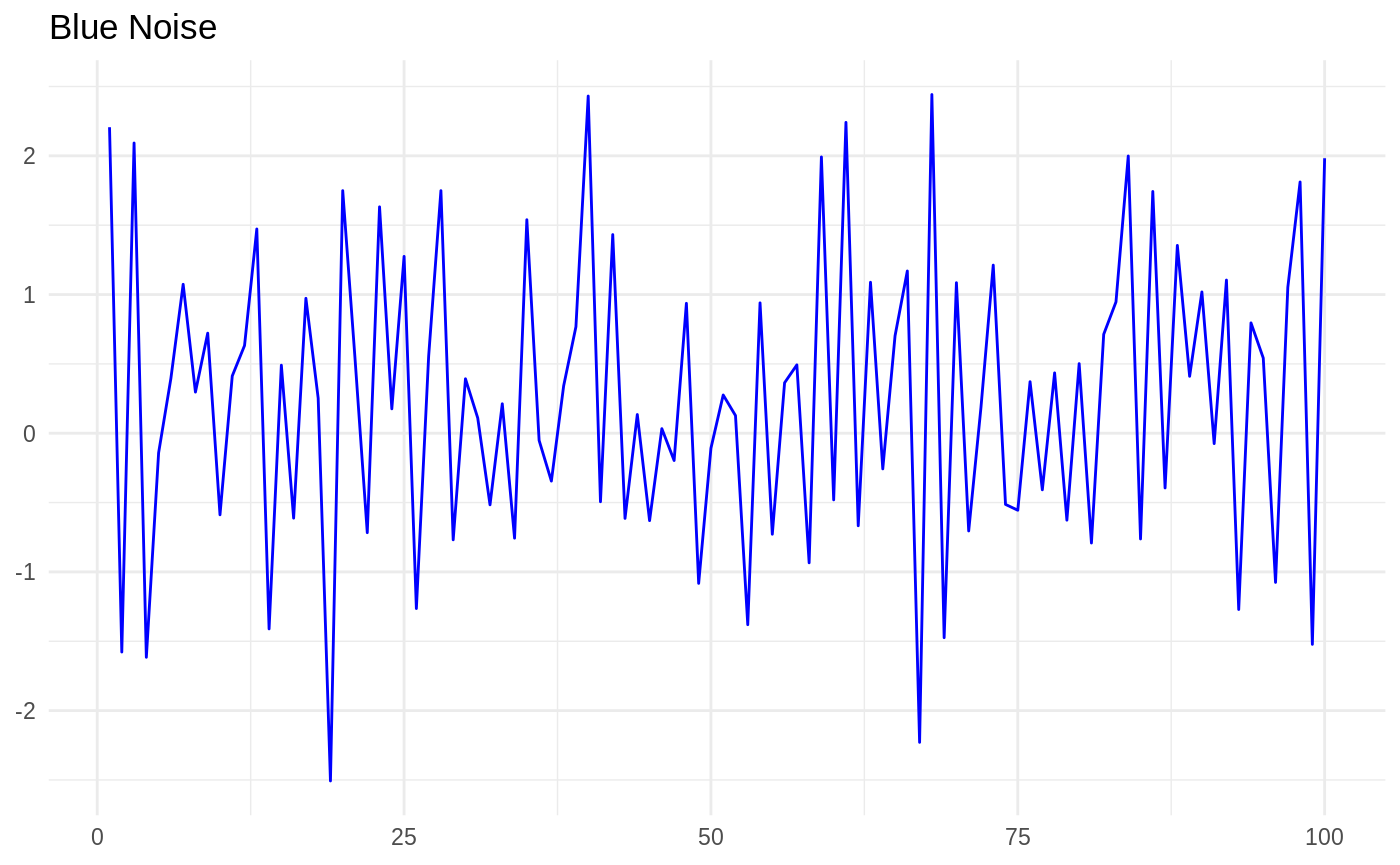
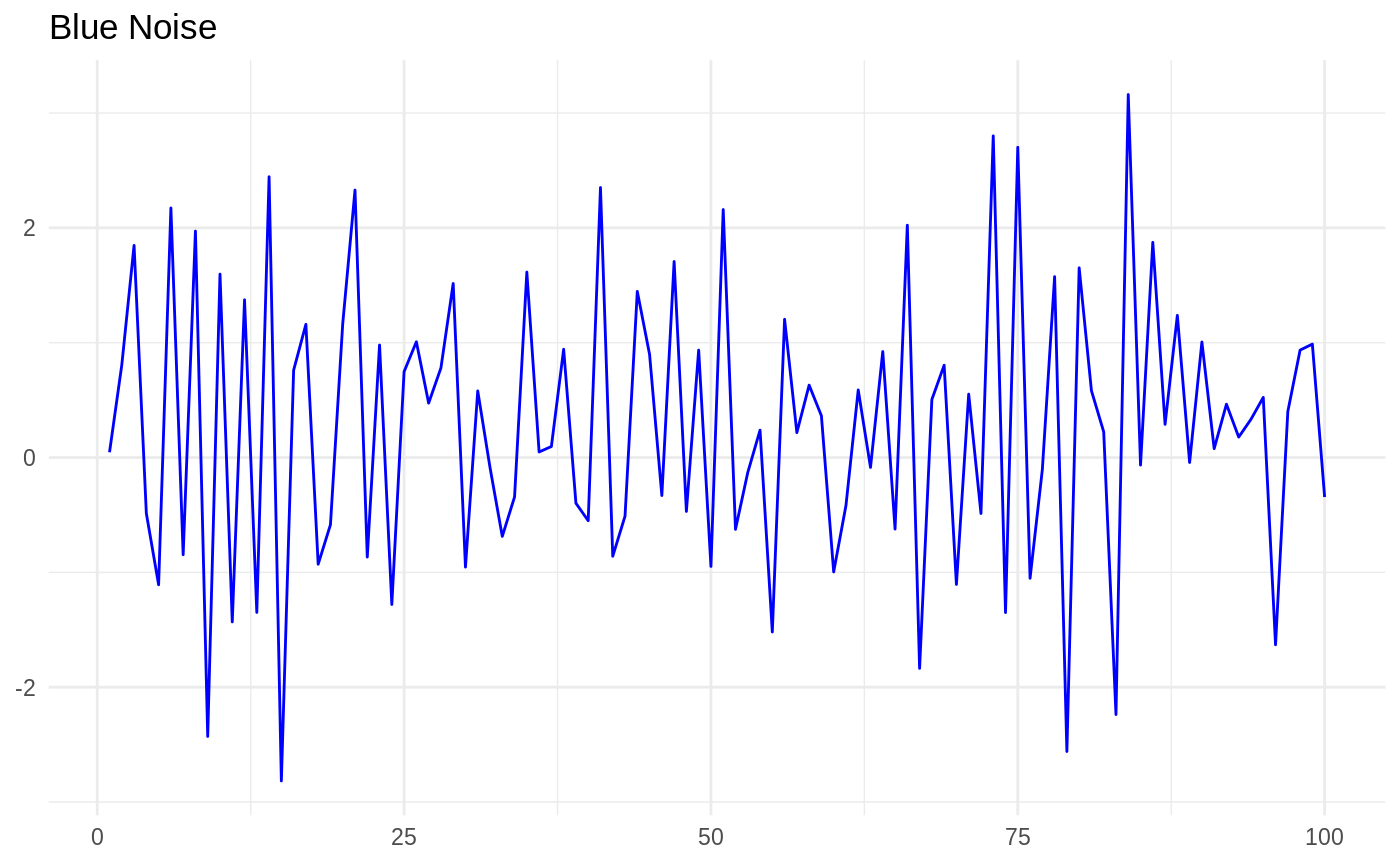
Deploy japilo/colorednoise to github.com/japilo/colorednoise.git:gh-pages

Changed region(s): [[0.0614, 0.1249, 0.9521, 0.874]]

diff --git a/articles/noise.html b/articles/noise.html
@@ -111,12 +111,12 @@
 <p>To show you how you can use this package to simulate and analyze colored noise, I will present a problem for us to solve. Let’s say we want to find out whether our estimates of temporal autocorrelation are biased when the standard deviation of the colored noise is high. First, let’s use the <code>raw_noise</code> function to generate some colored noise with high variance.</p>
 <div class="sourceCode" id="cb1"><html><body><pre class="r"><span class="no">red</span> <span class="kw">&lt;-</span> <span class="fu">colored_noise</span>(<span class="kw">timesteps</span> <span class="kw">=</span> <span class="fl">100</span>, <span class="kw">mean</span> <span class="kw">=</span> <span class="fl">0.3</span>, <span class="kw">sd</span> <span class="kw">=</span> <span class="fl">1.2</span>, <span class="kw">phi</span> <span class="kw">=</span> <span class="fl">0.5</span>)
 <span class="no">red</span>[<span class="fl">1</span>:<span class="fl">10</span>]
-<span class="co">#&gt;  [1]  0.93536076  0.97127333  2.09377893  1.10313605  0.05005448  0.32824988</span>
-<span class="co">#&gt;  [7]  0.93707761  0.05518849 -0.46995523  1.03558363</span>
+<span class="co">#&gt;  [1]  1.11338642  0.89122190  2.43140940  1.28325965  0.84462601  0.74068681</span>
+<span class="co">#&gt;  [7]  2.98260404  2.65548387  0.05542248 -1.12641164</span>
 <span class="no">blue</span> <span class="kw">&lt;-</span> <span class="fu">colored_noise</span>(<span class="kw">timesteps</span> <span class="kw">=</span> <span class="fl">100</span>, <span class="kw">mean</span> <span class="kw">=</span> <span class="fl">0.3</span>, <span class="kw">sd</span> <span class="kw">=</span> <span class="fl">1.2</span>, <span class="kw">phi</span> <span class="kw">=</span> -<span class="fl">0.5</span>)
 <span class="no">blue</span>[<span class="fl">1</span>:<span class="fl">10</span>]
-<span class="co">#&gt;  [1]  2.2065115 -1.5774624  2.0924251 -1.6154014 -0.1410266  0.3951644</span>
-<span class="co">#&gt;  [7]  1.0738005  0.2966731  0.7214214 -0.5879792</span>
+<span class="co">#&gt;  [1]  0.04577544  0.80638740  1.84709282 -0.48648466 -1.10795567  2.17319105</span>
+<span class="co">#&gt;  [7] -0.84642927  1.97186461 -2.42890221  1.59705019</span>
 <span class="fu">ggplot</span>(<span class="kw">data</span> <span class="kw">=</span> <span class="kw">NULL</span>, <span class="fu">aes</span>(<span class="kw">x</span> <span class="kw">=</span> <span class="fu"><a href="https://rdrr.io/r/base/c.html">c</a></span>(<span class="fl">1</span>:<span class="fl">100</span>), <span class="kw">y</span> <span class="kw">=</span> <span class="no">blue</span>)) + <span class="fu">geom_line</span>(<span class="kw">color</span><span class="kw">=</span><span class="st">"blue"</span>) + <span class="fu">theme_minimal</span>() + <span class="fu">theme</span>(<span class="kw">axis.title</span> <span class="kw">=</span> <span class="fu">element_blank</span>()) + <span class="fu">ggtitle</span>(<span class="st">"Blue Noise"</span>)</pre></body></html></div>
 <p><img src="noise_files/figure-html/generate%20noise-1.png" width="700"></p>
 <div class="sourceCode" id="cb2"><html><body><pre class="r"><span class="fu">ggplot</span>(<span class="kw">data</span> <span class="kw">=</span> <span class="kw">NULL</span>, <span class="fu">aes</span>(<span class="kw">x</span> <span class="kw">=</span> <span class="fu"><a href="https://rdrr.io/r/base/c.html">c</a></span>(<span class="fl">1</span>:<span class="fl">100</span>), <span class="kw">y</span> <span class="kw">=</span> <span class="no">red</span>)) + <span class="fu">geom_line</span>(<span class="kw">color</span><span class="kw">=</span><span class="st">"red"</span>) + <span class="fu">theme_minimal</span>() + <span class="fu">theme</span>(<span class="kw">axis.title</span> <span class="kw">=</span> <span class="fu">element_blank</span>()) + <span class="fu">ggtitle</span>(<span class="st">"Red Noise"</span>)</pre></body></html></div>
@@ -124,22 +124,22 @@
 <p>The red noise and blue noise look the way they should. Now let’s estimate the mean, SD, and autocorrelation of these two sets of random numbers to see how well they match the parameters we used to generate them.</p>
 <div class="sourceCode" id="cb3"><html><body><pre class="r"><span class="fu">invoke_map</span>(<span class="fu"><a href="https://rdrr.io/r/base/list.html">list</a></span>(<span class="no">mean</span>, <span class="no">sd</span>, <span class="no">autocorrelation</span>), <span class="fu"><a href="https://rdrr.io/r/base/rep.html">rep</a></span>(<span class="fu"><a href="https://rdrr.io/r/base/list.html">list</a></span>(<span class="fu"><a href="https://rdrr.io/r/base/list.html">list</a></span>(<span class="no">red</span>)), <span class="fl">3</span>))
 <span class="co">#&gt; [[1]]</span>
-<span class="co">#&gt; [1] 0.06400179</span>
+<span class="co">#&gt; [1] 0.09605931</span>
 <span class="co">#&gt; </span>
 <span class="co">#&gt; [[2]]</span>
-<span class="co">#&gt; [1] 1.206057</span>
+<span class="co">#&gt; [1] 1.589679</span>
 <span class="co">#&gt; </span>
 <span class="co">#&gt; [[3]]</span>
-<span class="co">#&gt; [1] 0.5008468</span>
+<span class="co">#&gt; [1] 0.684355</span>
 <span class="fu">invoke_map</span>(<span class="fu"><a href="https://rdrr.io/r/base/list.html">list</a></span>(<span class="no">mean</span>, <span class="no">sd</span>, <span class="no">autocorrelation</span>), <span class="fu"><a href="https://rdrr.io/r/base/rep.html">rep</a></span>(<span class="fu"><a href="https://rdrr.io/r/base/list.html">list</a></span>(<span class="fu"><a href="https://rdrr.io/r/base/list.html">list</a></span>(<span class="no">blue</span>)), <span class="fl">3</span>))
 <span class="co">#&gt; [[1]]</span>
-<span class="co">#&gt; [1] 0.2528352</span>
+<span class="co">#&gt; [1] 0.2752775</span>
 <span class="co">#&gt; </span>
 <span class="co">#&gt; [[2]]</span>
-<span class="co">#&gt; [1] 1.081475</span>
+<span class="co">#&gt; [1] 1.24225</span>
 <span class="co">#&gt; </span>
 <span class="co">#&gt; [[3]]</span>
-<span class="co">#&gt; [1] -0.5370764</span></pre></body></html></div>
+<span class="co">#&gt; [1] -0.5798485</span></pre></body></html></div>
 <p>The estimates for these seem to be quite accurate. But let’s try generating a whole lot of colored noise across a range of variance and color and estimating the autocorrelation of each replicate.</p>
 <div class="sourceCode" id="cb4"><html><body><pre class="r"><span class="no">raw_sims</span> <span class="kw">&lt;-</span> <span class="fu">cross_df</span>(<span class="fu"><a href="https://rdrr.io/r/base/list.html">list</a></span>(<span class="kw">timesteps</span> <span class="kw">=</span> <span class="fl">20</span>, <span class="kw">phi</span> <span class="kw">=</span> <span class="fu"><a href="https://rdrr.io/r/base/c.html">c</a></span>(-<span class="fl">0.5</span>, <span class="fl">0</span>, <span class="fl">0.5</span>), <span class="kw">mean</span> <span class="kw">=</span> <span class="fl">0.3</span>, <span class="kw">sd</span> <span class="kw">=</span> <span class="fu"><a href="https://rdrr.io/r/base/c.html">c</a></span>(<span class="fl">0.5</span>, <span class="fl">0.7</span>, <span class="fl">0.9</span>, <span class="fl">1.1</span>, <span class="fl">1.3</span>, <span class="fl">1.5</span>))) <span class="kw">%&gt;%</span> <span class="fu">rerun</span>(<span class="kw">.n</span> <span class="kw">=</span> <span class="fl">30</span>, <span class="fu">pmap</span>(<span class="no">.</span>, <span class="no">colored_noise</span>))
 <span class="no">labels</span> <span class="kw">&lt;-</span> <span class="no">raw_sims</span> <span class="kw">%&gt;%</span> <span class="fu">map</span>(<span class="fl">1</span>) <span class="kw">%&gt;%</span> <span class="fu">rbindlist</span>()
@@ -148,12 +148,12 @@
 <span class="no">sd_range</span> <span class="kw">&lt;-</span> <span class="fu"><a href="https://rdrr.io/r/base/cbind.html">cbind</a></span>(<span class="no">labels</span>, <span class="no">estimates</span>)
 <span class="fu"><a href="https://rdrr.io/r/utils/head.html">head</a></span>(<span class="no">sd_range</span>)
 <span class="co">#&gt;    timesteps  phi mean  sd         mu     sigma autocorrelation</span>
-<span class="co">#&gt; 1:        20 -0.5  0.3 0.5  0.2481064 0.8007250    -0.489934956</span>
-<span class="co">#&gt; 2:        20  0.0  0.3 0.5  0.3376863 0.3733479     0.009241188</span>
-<span class="co">#&gt; 3:        20  0.5  0.3 0.5 -0.1549851 0.4616121     0.490003138</span>
-<span class="co">#&gt; 4:        20 -0.5  0.3 0.7  0.1753247 0.4671842    -0.439568752</span>
-<span class="co">#&gt; 5:        20  0.0  0.3 0.7  0.3121262 0.7896316    -0.261645813</span>
-<span class="co">#&gt; 6:        20  0.5  0.3 0.7  0.5419204 0.7359371     0.612440364</span></pre></body></html></div>
+<span class="co">#&gt; 1:        20 -0.5  0.3 0.5 0.27566936 0.4378526      -0.2844773</span>
+<span class="co">#&gt; 2:        20  0.0  0.3 0.5 0.44222912 0.4498519       0.1189560</span>
+<span class="co">#&gt; 3:        20  0.5  0.3 0.5 0.32835512 0.4259221       0.3747385</span>
+<span class="co">#&gt; 4:        20 -0.5  0.3 0.7 0.38903363 0.6772863      -0.6081804</span>
+<span class="co">#&gt; 5:        20  0.0  0.3 0.7 0.30529683 0.7024957      -0.1636181</span>
+<span class="co">#&gt; 6:        20  0.5  0.3 0.7 0.02425405 0.6925781       0.6142899</span></pre></body></html></div>
 <p>We can visualize these results by finding the mean and confidence intervals of the autocorrelation estimates for each combination of variance and noise color, and plotting them out.</p>
 <div class="sourceCode" id="cb5"><html><body><pre class="r"><span class="no">summ</span> <span class="kw">&lt;-</span> <span class="no">sd_range</span>[, <span class="fu">.</span>(<span class="kw">lower.ci</span> <span class="kw">=</span> ((<span class="kw">function</span>(<span class="no">bar</span>) {
     <span class="fu"><a href="https://rdrr.io/r/stats/quantile.html">quantile</a></span>(<span class="no">bar</span>, <span class="kw">probs</span> <span class="kw">=</span> <span class="fu"><a href="https://rdrr.io/r/base/c.html">c</a></span>(<span class="fl">0.05</span>, <span class="fl">0.95</span>))<span class="kw">[[</span><span class="fl">1</span>]]
